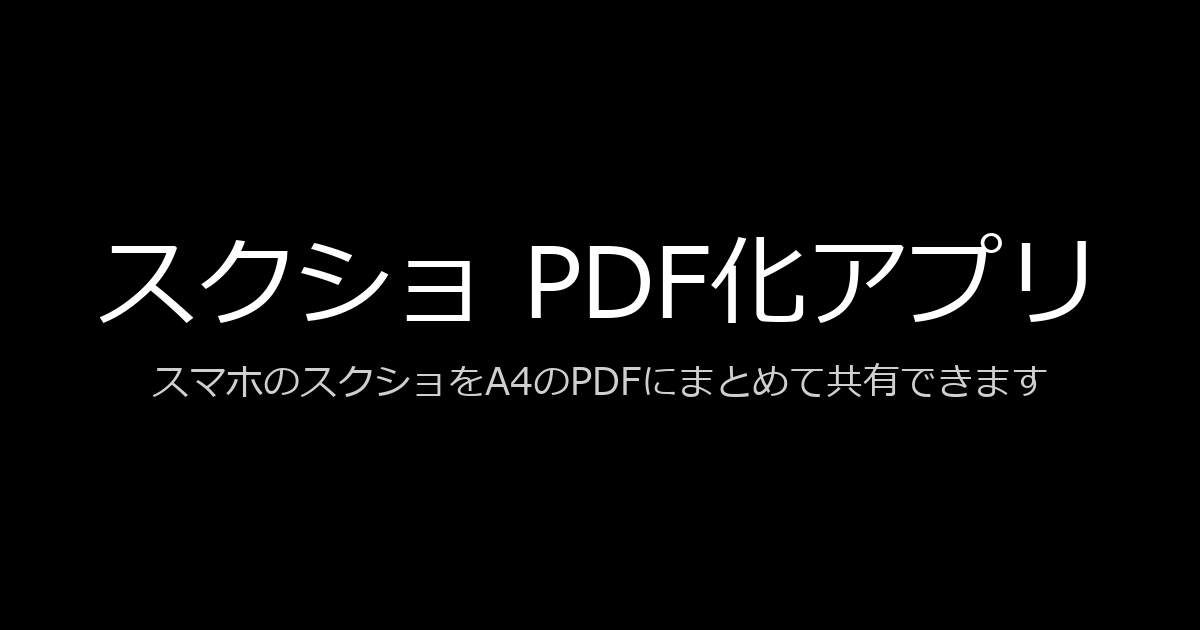
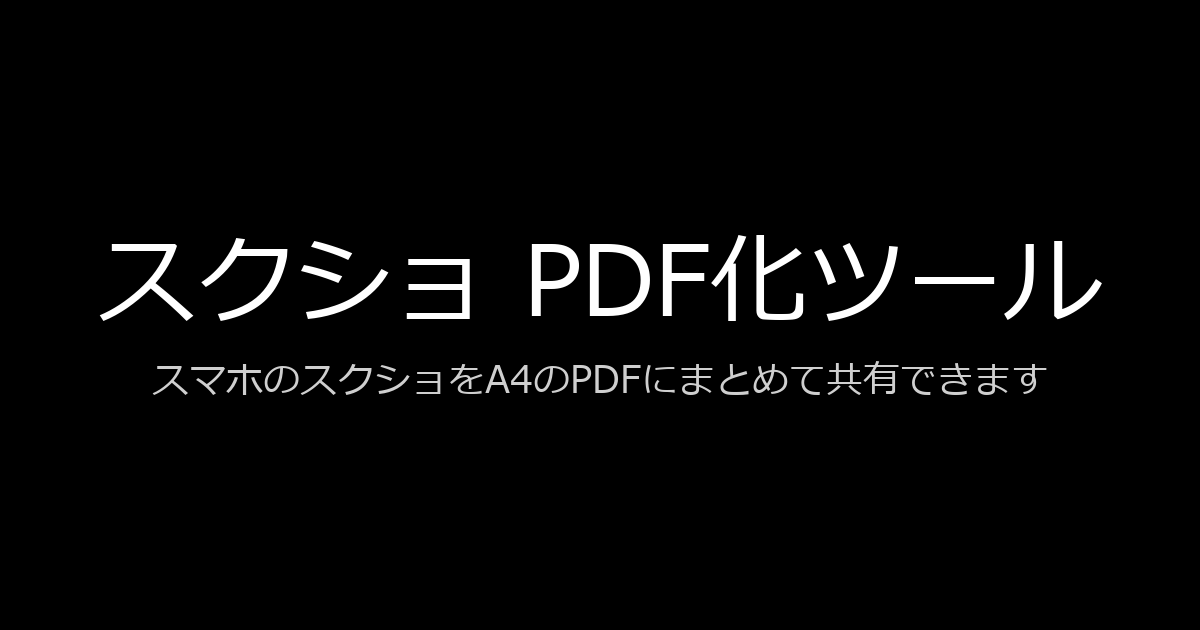
Update screenshot-pdf

diff --git a/public/screenshot-pdf-offline.html b/public/screenshot-pdf-offline.html
@@ -7,8 +7,8 @@
[1 lines of base64/hex data omitted]
 <meta property="og:type" content="website">
 <meta property="og:url" content="https://screenshot-pdf.pages.dev/">
-<meta property="og:title" content="スクショ PDF化アプリ">
-<meta property="og:description" content="スマホのスクショをA4のPDFにまとめて、そのままメール・チャットで共有できるアプリです。送信なし・ローカルで完結、オフライン版もあります。">
+<meta property="og:title" content="スクショ PDF化ツール">
+<meta property="og:description" content="スマホのスクショをA4のPDFにまとめて、そのままメール・チャットで共有できるツールです。送信なし・ローカルで完結、オフライン版もあります。">
 <!-- og:imageは正方形を1枚目に置く。多くのクローラー(Teams等)は複数og:imageのうち
      1枚目を機械的に使い、小さいサムネイル枠では中央を正方形にトリミングする。1枚目が
      横長(1200x630)だと左右の端が切れてタイトル文字が欠ける実害を確認したため、
@@ -23,8 +23,8 @@
 <meta property="og:image:height" content="630">
 <meta property="og:image:type" content="image/png">
 <meta name="twitter:card" content="summary_large_image">
-<meta name="twitter:title" content="スクショ PDF化アプリ">
-<meta name="twitter:description" content="スマホのスクショをA4のPDFにまとめて、そのままメール・チャットで共有できるアプリです。送信なし・ローカルで完結、オフライン版もあります。">
+<meta name="twitter:title" content="スクショ PDF化ツール">
+<meta name="twitter:description" content="スマホのスクショをA4のPDFにまとめて、そのままメール・チャットで共有できるツールです。送信なし・ローカルで完結、オフライン版もあります。">
 <meta name="twitter:image" content="https://screenshot-pdf.pages.dev/og-image-large.png">
 <!-- PDF生成のみ利用。画像・PDFはどこにも送信されません。読み込むのはライブラリのJSだけです。 -->
 <script>
@@ -174,8 +174,8 @@
   <aside class="sidebar">
     <div class="brand">
       <div class="app-title">スクショ PDF化</div>
-      <div class="app-tagline">■ スマホのスクショを2×2で配置したPDFに変換するアプリです</div>
-      <div class="app-sub">※外部への送信はなくローカルで完結するアプリです。ご利用前に<a href="#disclaimer">免責事項</a>をご覧ください。</div>
+      <div class="app-tagline">■ スマホのスクショを2×2で配置したPDFに変換するツールです</div>
+      <div class="app-sub">※外部への送信はなくローカルで完結するツールです。ご利用前に<a href="#disclaimer">免責事項</a>をご覧ください。</div>
     </div>
 
     <!-- X等のアプリ内ブラウザでは、スクショの選択（写真picker呼び出し）や送信・保存が
@@ -227,15 +227,15 @@
 
     <div id="secondary-info">
       <div class="section">
-        <div class="shead">■ このアプリについて</div>
-        <div class="cap">※スクショを選んでA4のPDFにまとめ、そのまま共有できるアプリです。オフライン版も用意しています。</div>
+        <div class="shead">■ このツールについて</div>
+        <div class="cap">※スクショを選んでA4のPDFにまとめ、そのまま共有できるツールです。オフライン版も用意しています。</div>
         <div class="cap">※ご意見・ご要望は作成者までご連絡ください</div>
         <a class="link" href="https://x.com/minnanosaiban" target="_blank" rel="noopener"><svg class="icon" style="vertical-align:-0.15em" xmlns="http://www.w3.org/2000/svg" fill="currentColor" viewBox="0 0 16 16" aria-hidden="true"><path d="M12.6.75h2.454l-5.36 6.142L16 15.25h-4.937l-3.867-5.07-4.425 5.07H.316l5.733-6.57L0 .75h5.063l3.495 4.633L12.601.75Zm-.86 13.028h1.36L4.323 2.145H2.865z"/></svg> @minnanosaiban</a>
       </div>
 
       <div class="section" id="disclaimer">
         <div class="shead">■ 免責事項</div>
-        <div class="cap">※本ツールは無保証で提供されます（現状有姿）。なお、本アプリのコードは GitHub に公開しています。</div>
+        <div class="cap">※本ツールは無保証で提供されます（現状有姿）。なお、コードは GitHub に公開しています。</div>
         <a class="gh-link" href="https://github.com/minnanosaiban/screenshot-pdf" target="_blank" rel="noopener" title="ソースコード（GitHub）" aria-label="ソースコード（GitHub）">
           <svg class="icon" xmlns="http://www.w3.org/2000/svg" fill="currentColor" viewBox="0 0 16 16" aria-hidden="true">
             <path d="M8 0C3.58 0 0 3.58 0 8c0 3.54 2.29 6.53 5.47 7.59.4.07.55-.17.55-.38 0-.19-.01-.82-.01-1.49-2.01.37-2.53-.49-2.69-.94-.09-.23-.48-.94-.82-1.13-.28-.15-.68-.52-.01-.53.63-.01 1.08.58 1.23.82.72 1.21 1.87.87 2.33.66.07-.52.28-.87.51-1.07-1.78-.2-3.64-.89-3.64-3.95 0-.87.31-1.59.82-2.15-.08-.2-.36-1.02.08-2.12 0 0 .67-.21 2.2.82.64-.18 1.32-.27 2-.27s1.36.09 2 .27c1.53-1.04 2.2-.82 2.2-.82.44 1.1.16 1.92.08 2.12.51.56.82 1.27.82 2.15 0 3.07-1.87 3.75-3.65 3.95.29.25.54.73.54 1.48 0 1.07-.01 1.93-.01 2.2 0 .21.15.46.55.38A8.01 8.01 0 0 0 16 8c0-4.42-3.58-8-8-8"/>
@@ -312,7 +312,7 @@ const scrollToMain = () => {
   if (mobileQuery.matches) statusEl.scrollIntoView({ behavior: "smooth", block: "start" });
 };
 
-// 「このアプリについて」「免責事項」は、モバイル幅では情報より先に操作・結果を見せたいので
+// 「このツールについて」「免責事項」は、モバイル幅では情報より先に操作・結果を見せたいので
 // プレビュー（本文）の下へ実際に移動し、デスクトップ幅ではサイドバー内の元の位置に戻す。
 // 複製はしない（免責事項へのリンク先要素が常に1つだけになるようにするため）。
 const secondaryInfo = $("secondary-info");

diff --git a/public/index.html b/public/index.html
@@ -7,8 +7,8 @@
 <link rel="icon" type="image/svg+xml" href="favicon.svg">
 <meta property="og:type" content="website">
 <meta property="og:url" content="https://screenshot-pdf.pages.dev/">
-<meta property="og:title" content="スクショ PDF化アプリ">
-<meta property="og:description" content="スマホのスクショをA4のPDFにまとめて、そのままメール・チャットで共有できるアプリです。送信なし・ローカルで完結、オフライン版もあります。">
+<meta property="og:title" content="スクショ PDF化ツール">
+<meta property="og:description" content="スマホのスクショをA4のPDFにまとめて、そのままメール・チャットで共有できるツールです。送信なし・ローカルで完結、オフライン版もあります。">
 <!-- og:imageは正方形を1枚目に置く。多くのクローラー(Teams等)は複数og:imageのうち
      1枚目を機械的に使い、小さいサムネイル枠では中央を正方形にトリミングする。1枚目が
      横長(1200x630)だと左右の端が切れてタイトル文字が欠ける実害を確認したため、
@@ -23,8 +23,8 @@
 <meta property="og:image:height" content="630">
 <meta property="og:image:type" content="image/png">
 <meta name="twitter:card" content="summary_large_image">
-<meta name="twitter:title" content="スクショ PDF化アプリ">
-<meta name="twitter:description" content="スマホのスクショをA4のPDFにまとめて、そのままメール・チャットで共有できるアプリです。送信なし・ローカルで完結、オフライン版もあります。">
+<meta name="twitter:title" content="スクショ PDF化ツール">
+<meta name="twitter:description" content="スマホのスクショをA4のPDFにまとめて、そのままメール・チャットで共有できるツールです。送信なし・ローカルで完結、オフライン版もあります。">
 <meta name="twitter:image" content="https://screenshot-pdf.pages.dev/og-image-large.png">
 <!-- PDF生成のみ利用。画像・PDFはどこにも送信されません。読み込むのはライブラリのJSだけです。 -->
 <script src="https://cdnjs.cloudflare.com/ajax/libs/pdf-lib/1.17.1/pdf-lib.min.js"></script>
@@ -156,8 +156,8 @@
   <aside class="sidebar">
     <div class="brand">
       <div class="app-title">スクショ PDF化</div>
-      <div class="app-tagline">■ スマホのスクショを2×2で配置したPDFに変換するアプリです</div>
-      <div class="app-sub">※外部への送信はなくローカルで完結するアプリです。ご利用前に<a href="#disclaimer">免責事項</a>をご覧ください。</div>
+      <div class="app-tagline">■ スマホのスクショを2×2で配置したPDFに変換するツールです</div>
+      <div class="app-sub">※外部への送信はなくローカルで完結するツールです。ご利用前に<a href="#disclaimer">免責事項</a>をご覧ください。</div>
     </div>
 
     <!-- X等のアプリ内ブラウザでは、スクショの選択（写真picker呼び出し）や送信・保存が
@@ -209,8 +209,8 @@
 
     <div id="secondary-info">
       <div class="section">
-        <div class="shead">■ このアプリについて</div>
-        <div class="cap">※スクショを選んでA4のPDFにまとめ、そのまま共有できるアプリです。オフライン版も用意しています。</div>
+        <div class="shead">■ このツールについて</div>
+        <div class="cap">※スクショを選んでA4のPDFにまとめ、そのまま共有できるツールです。オフライン版も用意しています。</div>
         <a class="link" href="screenshot-pdf-offline.html" download><svg class="icon" style="vertical-align:-0.15em" xmlns="http://www.w3.org/2000/svg" fill="currentColor" viewBox="0 0 16 16" aria-hidden="true"><path d="M.5 9.9a.5.5 0 0 1 .5.5v2.5a1 1 0 0 0 1 1h12a1 1 0 0 0 1-1v-2.5a.5.5 0 0 1 1 0v2.5a2 2 0 0 1-2 2H2a2 2 0 0 1-2-2v-2.5a.5.5 0 0 1 .5-.5"/><path d="M7.646 11.854a.5.5 0 0 0 .708 0l3-3a.5.5 0 0 0-.708-.708L8.5 10.293V1.5a.5.5 0 0 0-1 0v8.793L5.354 8.146a.5.5 0 1 0-.708.708z"/></svg> オフライン版をダウンロード</a>
         <div class="cap">※ご意見・ご要望は作成者までご連絡ください</div>
         <a class="link" href="https://x.com/minnanosaiban" target="_blank" rel="noopener"><svg class="icon" style="vertical-align:-0.15em" xmlns="http://www.w3.org/2000/svg" fill="currentColor" viewBox="0 0 16 16" aria-hidden="true"><path d="M12.6.75h2.454l-5.36 6.142L16 15.25h-4.937l-3.867-5.07-4.425 5.07H.316l5.733-6.57L0 .75h5.063l3.495 4.633L12.601.75Zm-.86 13.028h1.36L4.323 2.145H2.865z"/></svg> @minnanosaiban</a>
@@ -218,7 +218,7 @@
 
       <div class="section" id="disclaimer">
         <div class="shead">■ 免責事項</div>
-        <div class="cap">※本ツールは無保証で提供されます（現状有姿）。なお、本アプリのコードは GitHub に公開しています。</div>
+        <div class="cap">※本ツールは無保証で提供されます（現状有姿）。なお、コードは GitHub に公開しています。</div>
         <a class="gh-link" href="https://github.com/minnanosaiban/screenshot-pdf" target="_blank" rel="noopener" title="ソースコード（GitHub）" aria-label="ソースコード（GitHub）">
           <svg class="icon" xmlns="http://www.w3.org/2000/svg" fill="currentColor" viewBox="0 0 16 16" aria-hidden="true">
             <path d="M8 0C3.58 0 0 3.58 0 8c0 3.54 2.29 6.53 5.47 7.59.4.07.55-.17.55-.38 0-.19-.01-.82-.01-1.49-2.01.37-2.53-.49-2.69-.94-.09-.23-.48-.94-.82-1.13-.28-.15-.68-.52-.01-.53.63-.01 1.08.58 1.23.82.72 1.21 1.87.87 2.33.66.07-.52.28-.87.51-1.07-1.78-.2-3.64-.89-3.64-3.95 0-.87.31-1.59.82-2.15-.08-.2-.36-1.02.08-2.12 0 0 .67-.21 2.2.82.64-.18 1.32-.27 2-.27s1.36.09 2 .27c1.53-1.04 2.2-.82 2.2-.82.44 1.1.16 1.92.08 2.12.51.56.82 1.27.82 2.15 0 3.07-1.87 3.75-3.65 3.95.29.25.54.73.54 1.48 0 1.07-.01 1.93-.01 2.2 0 .21.15.46.55.38A8.01 8.01 0 0 0 16 8c0-4.42-3.58-8-8-8"/>

diff --git a/public/app.js b/public/app.js
@@ -56,7 +56,7 @@ const scrollToMain = () => {
   if (mobileQuery.matches) statusEl.scrollIntoView({ behavior: "smooth", block: "start" });
 };
 
-// 「このアプリについて」「免責事項」は、モバイル幅では情報より先に操作・結果を見せたいので
+// 「このツールについて」「免責事項」は、モバイル幅では情報より先に操作・結果を見せたいので
 // プレビュー（本文）の下へ実際に移動し、デスクトップ幅ではサイドバー内の元の位置に戻す。
 // 複製はしない（免責事項へのリンク先要素が常に1つだけになるようにするため）。
 const secondaryInfo = $("secondary-info");

diff --git a/scripts/make_og_images.py b/scripts/make_og_images.py
@@ -61,7 +61,7 @@ def make_square():
 def make_large():
     w, h = 1200, 630
     pad_x_title, pad_x_sub, gap = 90, 90, 40
-    title = "スクショ PDF化アプリ"
+    title = "スクショ PDF化ツール"
     subtitle = "スマホのスクショをA4のPDFにまとめて共有できます"
 
     scratch = ImageDraw.Draw(Image.new("RGB", (10, 10)))

diff --git a/README.md b/README.md
@@ -2,9 +2,9 @@
 
 🔗 https://screenshot-pdf.pages.dev/
 
-## このアプリについて
+## このツールについて
 
-- スマホのスクショなど、複数の画像をA4のPDFにまとめてメール・チャットで送るアプリです。オフライン版も用意しています。
+- スマホのスクショなど、複数の画像をA4のPDFにまとめてメール・チャットで送るツールです。オフライン版も用意しています。
 - スマホでの利用を想定しています（「ファイルを保存してから添付する」ではなく、その場でメール・チャットの送信先を選べます）。
 - **処理はすべてローカルで完結し、画像もPDFもサーバーに送信されません。**
 - 公開は Cloudflare Pages を利用しています。
@@ -19,7 +19,7 @@
 
 ## 免責事項
 
-- 本ツールは無保証で提供されます（現状有姿）。なお、本アプリのコードは GitHub に公開しています。
+- 本ツールは無保証で提供されます（現状有姿）。なお、コードは GitHub に公開しています。
 - 処理はお使いのローカルで完結し画像・PDFは外部送信されませんが、ご利用環境に起因する不具合について作成者は責任を負いません。
 - 本ツールの利用により生じたいかなる損害についても作成者は責任を負いません。
 
